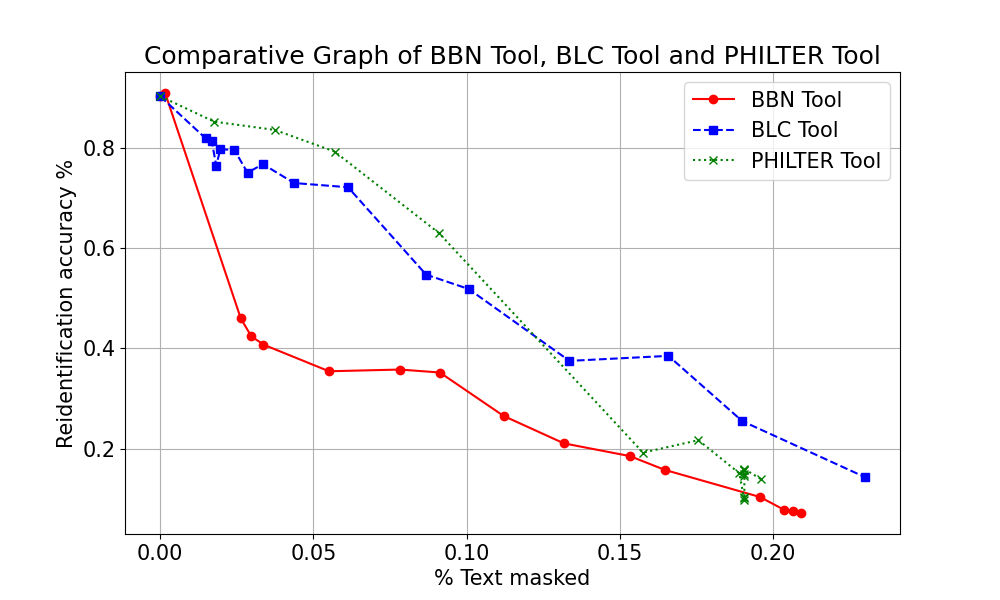
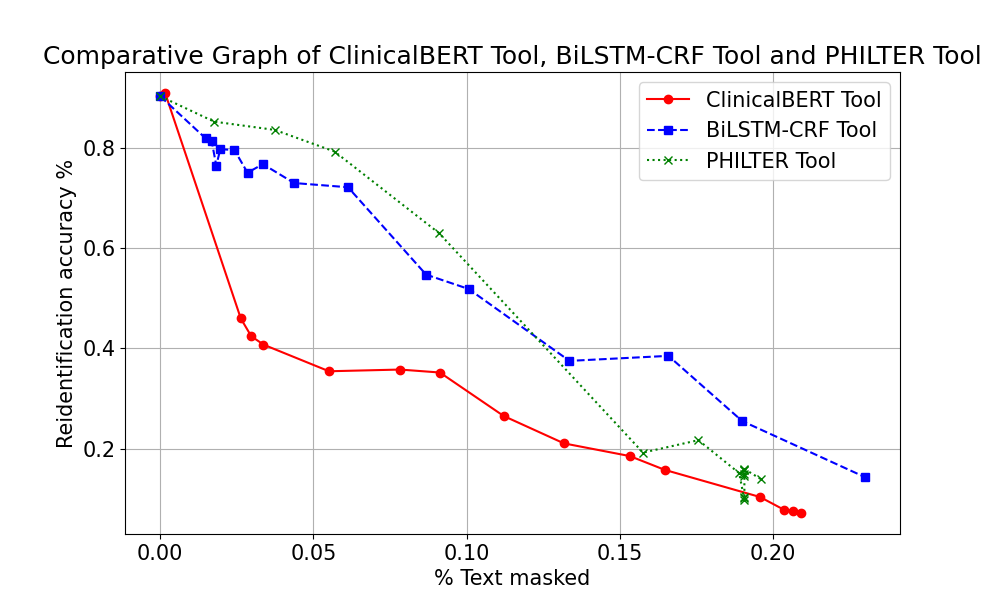
plotting changed

Changed region(s): [[0.651, 0.15, 0.899, 0.3], [0.031, 0.06, 0.496, 0.12], [0.558, 0.06, 0.992, 0.12]]

diff --git a/utils/plot_masking_percentage_vs_val_acc_graph.py b/utils/plot_masking_percentage_vs_val_acc_graph.py
@@ -2,71 +2,68 @@ import matplotlib.pyplot as plt
 
 # Updated data
 # EHR
-BBN_data = [
-[0.0000, 0.9028],
-[0.2065, 0.07627],
-[0.0263, 0.4598],
-[0.2092, 0.0719],
-[0.0297, 0.4245],
-[0.2036, 0.07846],
-[0.0016, 0.9093],
-[0.1121, 0.2654],
-[0.1318, 0.2107],
-[0.0337, 0.4076],
-[0.0551, 0.3545],
-[0.1533, 0.1854],
-[0.0783, 0.3579],
-[0.1647, 0.1579],
-[0.0913, 0.352],
-[0.1958, 0.1038]]
+ClinicalBERT_data = [
+[0.0, 0.9028], 
+[0.0016, 0.9093], 
+[0.0263, 0.4598], 
+[0.0297, 0.4245], 
+[0.0337, 0.4076], 
+[0.0551, 0.3545], 
+[0.0783, 0.3579], 
+[0.0913, 0.352], 
+[0.1121, 0.2654], 
+[0.1318, 0.2107], 
+[0.1533, 0.1854], 
+[0.1647, 0.1579], 
+[0.1958, 0.1038], 
+[0.2036, 0.07846], 
+[0.2065, 0.07627], 
+[0.2092, 0.0719]
+]
 
 # Deidentify
-BLC_data = [
-[0.0000, 0.9028],
-[0.0168, 0.8132],
-[0.1900, 0.2551],
-[0.0183, 0.7646],
-[0.1659, 0.3852],
-[0.2300, 0.1436],
-[0.0148, 0.819],
-[0.0335, 0.7675],
-[0.0196, 0.7971],
-[0.0437, 0.7298],
-[0.0242, 0.7958],
-[0.0613, 0.7214],
-[0.0285, 0.7504],
-[0.0868, 0.5472],
-[0.1007, 0.5185],
-[0.1336, 0.3752]
+BiLSTM_CRF_data = [
+[0.0, 0.9028], 
+[0.0148, 0.819], 
+[0.0168, 0.8132], 
+[0.0183, 0.7646], 
+[0.0196, 0.7971], 
+[0.0242, 0.7958], 
+[0.0285, 0.7504], 
+[0.0335, 0.7675], 
+[0.0437, 0.7298], 
+[0.0613, 0.7214], 
+[0.0868, 0.5472], 
+[0.1007, 0.5185], 
+[0.1336, 0.3752], 
+[0.1659, 0.3852], 
+[0.19, 0.2551], 
+[0.23, 0.1436]
 ]
 
 PHILTER_data = [
-[0.0000, 0.9028],
-[0.1907, 0.1597],
-[0.1890, 0.1514],
-[0.1907, 0.1568],
-[0.1907, 0.1581],
-[0.1907, 0.09823],
-[0.1907, 0.1504],
-[0.1757, 0.2171],
-[0.1907, 0.1452],
-[0.1576, 0.1923],
-[0.1907, 0.1047],
-[0.0910, 0.63],
-[0.1907, 0.1027],
-[0.0569, 0.7926],
-[0.0374, 0.8357],
-[0.0176, 0.8522],
-[0.1960, 0.1398]
+[0.0, 0.9028], 
+[0.0176, 0.8522], 
+[0.0374, 0.8357], 
+[0.0569, 0.7926], 
+[0.091, 0.63], 
+[0.1576, 0.1923], 
+[0.1757, 0.2171], 
+[0.189, 0.1514], 
+[0.1907, 0.09823], 
+[0.1907, 0.1027], 
+[0.1907, 0.1047], 
+[0.1907, 0.1452], 
+[0.1907, 0.1504], 
+[0.1907, 0.1568], 
+[0.1907, 0.1581], 
+[0.1907, 0.1597], 
+[0.196, 0.1398]
 ]
 
-BBN_data.sort()
-BLC_data.sort()
-PHILTER_data.sort()
-
 # Extracting x and y values
-x1, y1 = zip(*BBN_data)
-x2, y2 = zip(*BLC_data)
+x1, y1 = zip(*ClinicalBERT_data)
+x2, y2 = zip(*BiLSTM_CRF_data)
 x3, y3 = zip(*PHILTER_data)
 
 # Setting plot's parameters
@@ -76,12 +73,12 @@ plt.rc('font', **font)
 
 # Plotting the data
 plt.figure(figsize=(10, 6))
-plt.plot(x1, y1, marker='o', label='BBN Tool', linestyle='-', color='red')
-plt.plot(x2, y2, marker='s', label='BLC Tool', linestyle='--', color='blue')
+plt.plot(x1, y1, marker='o', label='ClinicalBERT Tool', linestyle='-', color='red')
+plt.plot(x2, y2, marker='s', label='BiLSTM-CRF Tool', linestyle='--', color='blue')
 plt.plot(x3, y3, marker='x', label='PHILTER Tool', linestyle=':', color='green')
 
 # Adding titles and labels
-plt.title('Comparative Graph of BBN Tool, BLC Tool and PHILTER Tool')
+plt.title('Comparative Graph of ClinicalBERT Tool, BiLSTM-CRF Tool and PHILTER Tool')
 plt.xlabel('% Text masked')
 plt.ylabel('Reidentification accuracy %')
 plt.legend()
